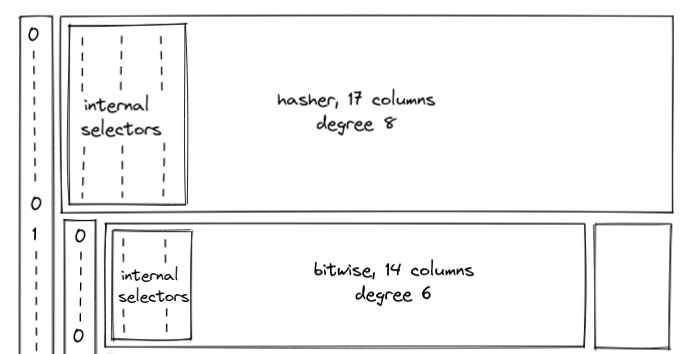
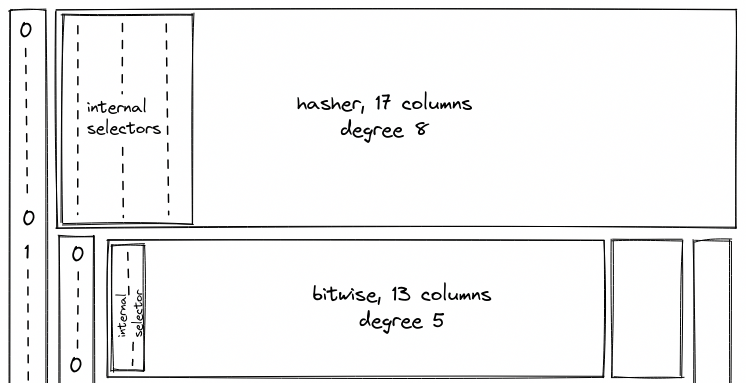
docs(mdbook): Remove u32or from bitwise chiplet

Changed region(s): [[0.0, 0.0, 1.0, 1.0], [0.3962, 0.7458, 0.701, 0.8701], [0.3962, 0.2486, 0.6401, 0.3729]]

diff --git a/assembly/src/parsers/u32_ops.rs b/assembly/src/parsers/u32_ops.rs
@@ -348,7 +348,7 @@ pub fn parse_u32divmod(
 ///
 /// We don't need to assert that inputs are u32 values because the VM does these assertions
 /// implicitly for `U32AND` operation.
-/// 
+///
 /// This takes 1 VM cycle.
 pub fn parse_u32and(span_ops: &mut Vec<Operation>, op: &Token) -> Result<(), AssemblyError> {
     match op.num_parts() {
@@ -364,7 +364,7 @@ pub fn parse_u32and(span_ops: &mut Vec<Operation>, op: &Token) -> Result<(), Ass
 ///
 /// We don't need to assert that inputs are u32 values because the VM does these assertions
 /// implicitly for `U32XOR` and `U32AND` operations.
-/// 
+///
 /// This takes 6 VM cycles.
 pub fn parse_u32or(span_ops: &mut Vec<Operation>, op: &Token) -> Result<(), AssemblyError> {
     match op.num_parts() {
@@ -387,7 +387,7 @@ pub fn parse_u32or(span_ops: &mut Vec<Operation>, op: &Token) -> Result<(), Asse
 ///
 /// We don't need to assert that inputs are u32 values because the VM does these assertions
 /// implicitly for `U32XOR` operation.
-/// 
+///
 /// This takes 1 VM cycle.
 pub fn parse_u32xor(span_ops: &mut Vec<Operation>, op: &Token) -> Result<(), AssemblyError> {
     match op.num_parts() {
@@ -403,8 +403,8 @@ pub fn parse_u32xor(span_ops: &mut Vec<Operation>, op: &Token) -> Result<(), Ass
 ///
 /// The reason this method works is because 2^32 provides a bit mask of ones, which after
 /// subtracting the element, flips the bits of the original value to perform a bitwise NOT.
-/// 
-/// This takes 1 VM cycle.
+///
+/// This takes 5 VM cycles.
 pub fn parse_u32not(span_ops: &mut Vec<Operation>, op: &Token) -> Result<(), AssemblyError> {
     match op.num_parts() {
         0 => return Err(AssemblyError::missing_param(op)),

diff --git a/air/src/chiplets/bitwise/mod.rs b/air/src/chiplets/bitwise/mod.rs
@@ -1,7 +1,7 @@
 use super::{EvaluationFrame, Felt, FieldElement, Vec};
 use crate::utils::{are_equal, binary_not, is_binary, is_zero, EvaluationResult};
 use vm_core::chiplets::{
-    bitwise::{NUM_DECOMP_BITS, OP_CYCLE_LEN},
+    bitwise::{NUM_DECOMP_BITS, NUM_SELECTORS, OP_CYCLE_LEN},
     BITWISE_A_COL_IDX, BITWISE_A_COL_RANGE, BITWISE_B_COL_IDX, BITWISE_B_COL_RANGE,
     BITWISE_OUTPUT_COL_IDX, BITWISE_PREV_OUTPUT_COL_IDX, BITWISE_SELECTOR_COL_IDX,
 };
@@ -101,13 +101,13 @@ fn enforce_selectors<E: FieldElement>(
     let mut constraint_offset = 0;
     // Selector must be binary for the entire table.
     result[0] = processor_flag * is_binary(frame.selector());
-    constraint_offset += 1;
+    constraint_offset += NUM_SELECTORS;
 
     // Selector values should stay the same for the entire cycle. In other words, the value can
     // only change when there is a transition to a new cycle i.e. from the last row of a cycle &
     // the first row of the new cycle when periodic column k1=0.
     result[constraint_offset] = processor_flag * k1 * (frame.selector() - frame.selector_next());
-    constraint_offset += 1;
+    constraint_offset += NUM_SELECTORS;
 
     constraint_offset
 }

diff --git a/docs/src/design/chiplets/bitwise.md b/docs/src/design/chiplets/bitwise.md
@@ -1,17 +1,13 @@
 # Bitwise Chiplet
 
-In this note we describe how to compute bitwise AND, OR, and XOR operations on 32-bit values and the constraints required for proving correct execution.
+In this note we describe how to compute bitwise AND and XOR operations on 32-bit values and the constraints required for proving correct execution.
 
-Assume that $a$ and $b$ are field elements in a 64-bit prime field. Assume also that $a$ and $b$ are known to contain values smaller than $2^{32}$. We want to compute $a \oplus b \rightarrow z$, where $\oplus$ is either bitwise AND, OR, or XOR, and $z$ is a field element containing the result of the corresponding bitwise operation.
+Assume that $a$ and $b$ are field elements in a 64-bit prime field. Assume also that $a$ and $b$ are known to contain values smaller than $2^{32}$. We want to compute $a \oplus b \rightarrow z$, where $\oplus$ is either bitwise AND or XOR, and $z$ is a field element containing the result of the corresponding bitwise operation.
 
-First, observe that we can compute AND, OR, and XOR relations for **single bit values** as follows:
+First, observe that we can compute AND and XOR relations for **single bit values** as follows:
 
 $$
 and(a, b) = a \cdot b
-$$
-
-$$
-or(a, b) = a + b - a \cdot b
 $$
 
 $$
@@ -20,7 +16,7 @@ $$
 
 To compute bitwise operations for multi-bit values, we will decompose the values into individual bits, apply the operations to single bits, and then aggregate the bitwsie results into the final result.
 
-To perform this operation we will use a table with 11 columns, and computing a single AND, OR, or XOR operation will require 8 table rows. We will also rely on two periodic columns as shown below.
+To perform this operation we will use a table with 11 columns, and computing a single AND or XOR operation will require 8 table rows. We will also rely on two periodic columns as shown below.
 
 ![bitwise_execution_trace](../../assets/design/chiplets/bitwise/bitwise_execution_trace.png)
 
@@ -55,26 +51,17 @@ AIR constraints needed to ensure the correctness of the above table are describe
 
 The Bitwise chiplet supports three operations with the following operation selectors:
 
-- `U32AND`: $s_0 = 0$, $s_1 = 0$
-- `U32OR`: $s_0 = 0$, $s_1 = 1$
-- `U32XOR`: $s_0 = 1$, $s_1 = 0$
+- `U32AND`: $s = 0$
+- `U32XOR`: $s = 1$
 
 The constraints must require that the selectors be binary and stay the same throughout the cycle:
 
 > $$
-s_0^2 - s_0 = 0 \text{ | degree} = 2
+s^2 - s = 0 \text{ | degree} = 2
 $$
 
 > $$
-s_1^2 - s_1 = 0 \text{ | degree} = 2
-$$
-
-> $$
-k_1 \cdot (s_0' - s_0) = 0 \text{ | degree} = 2
-$$
-
-> $$
-k_1 \cdot (s_1' - s_1) = 0 \text{ | degree} = 2
+k_1 \cdot (s' - s) = 0 \text{ | degree} = 2
 $$
 
 ### Input decomposition
@@ -130,13 +117,13 @@ Lastly, we need to ensure that for all rows the value in the $z$ column is compu
 For `U32AND`, this is enforced with the following constraint:
 
 > $$
-(1 - s_0) \cdot (1 - s_1) \cdot \left(z -(z_p \cdot 16 + \sum_{i=0}^3(2^i \cdot a_i \cdot b_i))\right) = 0 \text{ | degree} = 4
+(1 - s) \cdot \left(z -(z_p \cdot 16 + \sum_{i=0}^3(2^i \cdot a_i \cdot b_i))\right) = 0 \text{ | degree} = 3
 $$
 
 For `U32XOR`, this is enforced with the following constraint:
 
 > $$
-s_0 \cdot (1 - s_1) \cdot \left(z -(z_p \cdot 16 + \sum_{i=0}^3(2^i \cdot (a_i + b_i - 2 \cdot a_i \cdot b_i)))\right) = 0 \text{ | degree} = 4
+s \cdot \left(z -(z_p \cdot 16 + \sum_{i=0}^3(2^i \cdot (a_i + b_i - 2 \cdot a_i \cdot b_i)))\right) = 0 \text{ | degree} = 3
 $$
 
 ## Bitwise chiplet bus constraints
@@ -174,69 +161,3 @@ The constraints for the two sides of the bus communication are combined as follo
 > $$
 b'_{chip} \cdot \left(\alpha_0 + u_i\right) = b_{chip} \cdot ((\alpha_0 + v_i) \cdot m_i + 1 - m_i) \text{ | degree} = 4
 $$
-
-## Reducing the number of rows
-
-It is possible to reduce the number of rows in the table from 8 to 4 by performing bitwise operations on 2-bit values (rather than on single bits). This would require some changes to the constraints, most important of which are listed below.
-
-### Limit column values to 2 bits
-
-We'll need to make sure that $a_0 .. a_3$ and $b_0 .. b_3$ columns contain 2-bit values. This can be accomplished with the following constraints:
-
-$$
-a_i \cdot (a_i - 1) \cdot (a_i - 2) \cdot (a_i - 3) = 0
-$$
-
-$$
-b_i \cdot (b_i - 1) \cdot (b_i - 2) \cdot (b_i - 3) = 0
-$$
-
-### Bitwise operations on 2-bit limbs
-
-Instead of simple formulas for single-bit bitwise operations, we'll need to compute results of bitwsie operations over 2-bit values using a sum of degree 6 polynomials.
-
-For example, assuming $a$ and $b$ are 2-bit values, their bitwise AND can be computed as a sum of the following polynomials:
-
-$$
-\frac{1}{4} \cdot a \cdot (a - 2) \cdot (a - 3) \cdot b \cdot (b - 2) \cdot (b - 3)
-$$
-
-$$
-\frac{1}{12} \cdot a \cdot (a - 2) \cdot (a - 3) \cdot b \cdot (b - 1) \cdot (b - 2)
-$$
-
-$$
-\frac{1}{2} \cdot a \cdot (a - 1) \cdot (a - 3) \cdot b \cdot (b - 1) \cdot (b - 3)
-$$
-
-$$
--\frac{1}{6} \cdot a \cdot (a - 1) \cdot (a - 3) \cdot b \cdot (b - 1) \cdot (b - 2)
-$$
-
-$$
-\frac{1}{12} \cdot a \cdot (a - 1) \cdot (a - 2) \cdot b \cdot (b - 2) \cdot (b - 3)
-$$
-
-$$
--\frac{1}{6} \cdot a \cdot (a - 1) \cdot (a - 2) \cdot b \cdot (b - 1) \cdot (b - 3)
-$$
-
-$$
-\frac{1}{12} \cdot a \cdot (a - 1) \cdot (a - 2) \cdot b \cdot (b - 1) \cdot (b - 2)
-$$
-
-We can compute 2-bit results for OR and XOR operations in a similar manner. The general idea here is that we need to list polynomials which evaluate to $1$ for a given set of input values, and then multiply each polynomial by an expected result of a bitwise operation.
-
-For example, to compute a bitwise OR of $3$ and $3$, we first need to come up with a polynomial which evaluates to $1$ for $a = 3$ and $b = 3$, and to $0$ for all other inputs. This polynomial is:
-
-$$
-\frac{1}{36} \cdot a \cdot (a - 1) \cdot (a - 2) \cdot b \cdot (b - 1) \cdot (b - 2)
-$$
-
-And then, since $or(3, 3) = 3$, we need to multiply this polynomial by $3$, obtaining:
-
-$$
-\frac{1}{12} \cdot a \cdot (a - 1) \cdot (a - 2) \cdot b \cdot (b - 1) \cdot (b - 2)
-$$
-
-We then repeat this process for all $a$ and $b$ where $or(a, b) \ne 0$ to obtain all required polynomials.

diff --git a/docs/src/user_docs/assembly/u32_operations.md b/docs/src/user_docs/assembly/u32_operations.md
@@ -48,9 +48,9 @@ In all the table below, the number of cycles it takes for the VM to execute each
 | Instruction    | Stack input    | Stack output  | Notes                                      |
 | -------------- | -------------- | ------------- | ------------------------------------------ |
 | u32checked_and <br> - *(1 cycle)*    | [b, a, ...]    | [c, ...]      | Computes $c$ as a bitwise `AND` of binary representations of $a$ and $b$. <br> Fails if $max(a,b) \ge 2^{32}$ |
-| u32checked_or <br> - *(1 cycle)*     | [b, a, ...]    | [c, ...]      | Computes $c$ as a bitwise `OR` of binary representations of $a$ and $b$. <br> Fails if $max(a,b) \ge 2^{32}$ |
+| u32checked_or <br> - *(6 cycle)s*    | [b, a, ...]    | [c, ...]      | Computes $c$ as a bitwise `OR` of binary representations of $a$ and $b$. <br> Fails if $max(a,b) \ge 2^{32}$ |
 | u32checked_xor <br> - *(1 cycle)*    | [b, a, ...]    | [c, ...]      | Computes $c$ as a bitwise `XOR` of binary representations of $a$ and $b$. <br> Fails if $max(a,b) \ge 2^{32}$ |
-| u32checked_not <br> - *(5 cycles)*    | [a, ...]       | [b, ...]      | Computes $b$ as a bitwise `NOT` of binary representation of $a$. <br> Fails if $a \ge 2^{32}$ |
+| u32checked_not <br> - *(5 cycles)*   | [a, ...]       | [b, ...]      | Computes $b$ as a bitwise `NOT` of binary representation of $a$. <br> Fails if $a \ge 2^{32}$ |
 | u32checked_shl <br> - *(47 cycles)* <br> u32checked_shl.*b*  <br> - *(4 cycles)*       | [b, a, ...] | [c, ...]    | $c \leftarrow (a \cdot 2^b) \mod 2^{32}$ <br> Fails if $a \ge 2^{32}$ or $b > 31$ |
 | u32unchecked_shl <br> - *(40 cycles)* <br> u32unchecked_shl.*b* <br> - *(3 cycles)*    | [b, a, ...] | [c, ...]    | $c \leftarrow (a \cdot 2^b) \mod 2^{32}$ <br> Undefined if $a \ge 2^{32}$ or $b > 31$ |
 | u32checked_shr <br> - *(47 cycles)*<br> u32checked_shr.*b* <br> - *(4 cycles)*         | [b, a, ...] | [c, ...] | $c \leftarrow \lfloor a/2^b \rfloor$ <br> Fails if $a \ge 2^{32}$ or $b > 31$ |

diff --git a/docs/src/design/chiplets/main.md b/docs/src/design/chiplets/main.md
@@ -63,8 +63,8 @@ The resulting order is as follows:
 | Chiplet         | Cycle Length | Degree | Columns | Chiplet Selector Flag |
 | --------------- | :----------: | :----: | ------- | --------------------- |
 | Hash chiplet    |      8       |   8    | 17      | $\{0\}$               |
-| Bitwise chiplet |      8       |   6    | 14      | $\{1, 0\}$            |
-| Memory          |      -       |   6    | 14      | $\{1, 1, 0\}$         |
+| Bitwise chiplet |      8       |   5    | 13      | $\{1, 0\}$            |
+| Memory          |      -       |   9    | 14      | $\{1, 1, 0\}$         |
 | Padding         |      -       |   -    | -       | $\{1, 1, 1\}$         |
 
 ### Additional requirements for stacking execution traces
@@ -95,9 +95,8 @@ The labels are composed from the flag values of the chiplet selector(s) and inte
 | `HASHER_MR_UPDATE_NEW` |        $\{0\}$        |     $\{1, 1, 1\}$      | $\{0, 1, 1, 1\}$ |  15   |
 | `HASHER_RETURN_HASH`   |        $\{0\}$        |     $\{0, 0, 0\}$      | $\{0, 0, 0, 0\}$ |   1   |
 | `HASHER_RETURN_STATE`  |        $\{0\}$        |     $\{0, 0, 1\}$      | $\{0, 0, 0, 1\}$ |   9   |
-| `BITWISE_AND`          |      $\{1, 0\}$       |       $\{0, 0\}$       | $\{1, 0, 0, 0\}$ |   2   |
-| `BITWISE_OR`           |      $\{1, 0\}$       |       $\{0, 1\}$       | $\{1, 0, 0, 1\}$ |  10   |
-| `BITWISE_XOR`          |      $\{1, 0\}$       |       $\{1, 0\}$       | $\{1, 0, 1, 0\}$ |   6   |
+| `BITWISE_AND`          |      $\{1, 0\}$       |       $\{0\}$          | $\{1, 0, 0\}$    |   2   |
+| `BITWISE_XOR`          |      $\{1, 0\}$       |       $\{1\}$          | $\{1, 0, 1\}$    |   6   |
 | `MEMORY`               |     $\{1, 1, 1\}$     |           NA           | $\{1, 1, 1\}$    |   8   |
 
 ## Chiplets module constraints

diff --git a/docs/src/design/stack/op_constraints.md b/docs/src/design/stack/op_constraints.md
@@ -99,7 +99,7 @@ This group contains $32$ operations which do not shift the stack (this is almost
 | `<unused>`   | $31$         | `001_1111`      |                               | $7$         |
 
 ### Left stack shift operations
-This group contains $16$ operations which shift the stack to the left (i.e., remove an item from the stack). Most of left-shift operations are contained in this group. Since the op flag degree for these operations is $7$, constraints for these operations cannot exceed degree $2$.
+This group contains $15$ operations which shift the stack to the left (i.e., remove an item from the stack). Most of left-shift operations are contained in this group. Since the op flag degree for these operations is $7$, constraints for these operations cannot exceed degree $2$.
 
 | Operation    | Opcode value | Binary encoding | Operation group               | Flag degree |
 | ------------ | :----------: | :-------------: | :---------------------------: | :---------: |
@@ -110,7 +110,6 @@ This group contains $16$ operations which shift the stack to the left (i.e., rem
 | `AND`        | $36$         | `010_0100`      | [Field ops](./field_ops.md)   | $7$         |
 | `OR`         | $37$         | `010_0101`      | [Field ops](./field_ops.md)   | $7$         |
 | `U32AND`     | $38$         | `010_0110`      | [u32 ops](./u32_ops.md)       | $7$         |
-| `U32OR`      | $39$         | `010_0111`      | [u32 ops](./u32_ops.md)       | $7$         |
 | `U32XOR`     | $40$         | `010_1000`      | [u32 ops](./u32_ops.md)       | $7$         |
 | `DROP`       | $41$         | `010_1001`      | [Stack ops](./stack_ops.md)   | $7$         |
 | `CSWAP`      | $42$         | `010_1010`      | [Stack ops](./stack_ops.md)   | $7$         |

diff --git a/docs/src/design/stack/u32_ops.md b/docs/src/design/stack/u32_ops.md
@@ -259,24 +259,6 @@ In the above, $op_{u32and}$ is the unique [operation label](../chiplets/main.md#
 The effect of this operation on the rest of the stack is:
 * **Left shift** starting from position $2$.
 
-## U32OR
-Assume $a$ and $b$ are the values at the top of the stack. The `U32OR` operation computes $c \leftarrow (a \lor b)$, where $c$ is the result of performing a bitwise OR on $a$ and $b$. The diagram below illustrates this graphically.
-
-![u32or](../../assets/design/stack/u32_operations/U32OR.png)
-
-To facilitate this operation, we will need to make a request to the chiplet bus $b_{chip}$ by dividing its current value by the value representing bitwise operation request. This can be enforced with the following constraint:
-
-> $$
-b_{chip}' \cdot \left(\alpha_0 + \alpha_1 \cdot op_{u32or} + \alpha_2 \cdot s_0 + \alpha_3 \cdot s_1 +  \alpha_4 \cdot s_0'  \right) = b_{chip} \text{ | degree} = 2
-$$
-
-In the above, $op_{u32or}$ is the unique [operation label](../chiplets/main.md#operation-labels) of the bitwise `OR` operation.
-
-**Note**: unlike for many other u32 operations, bitwise OR operation does not assume that the values at the top of the stack are smaller than $2^{32}$. This is because the lookup will fail for any inputs which are not 32-bit integers.
-
-The effect of this operation on the rest of the stack is:
-* **Left shift** starting from position $2$.
-
 ## U32XOR
 Assume $a$ and $b$ are the values at the top of the stack. The `U32XOR` operation computes $c \leftarrow (a \oplus b)$, where $c$ is the result of performing a bitwise XOR on $a$ and $b$. The diagram below illustrates this graphically.
 
